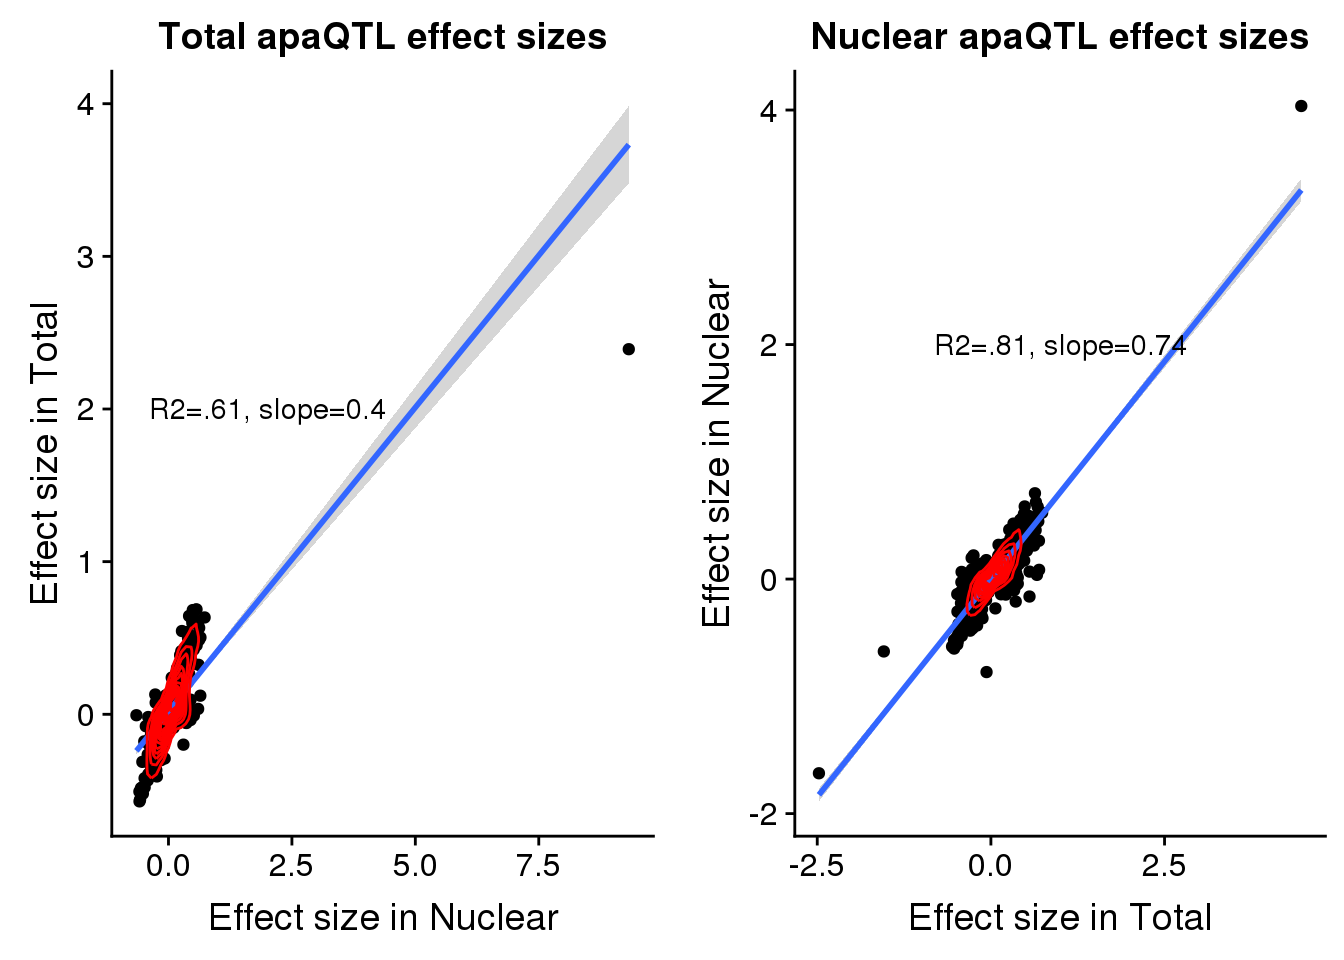
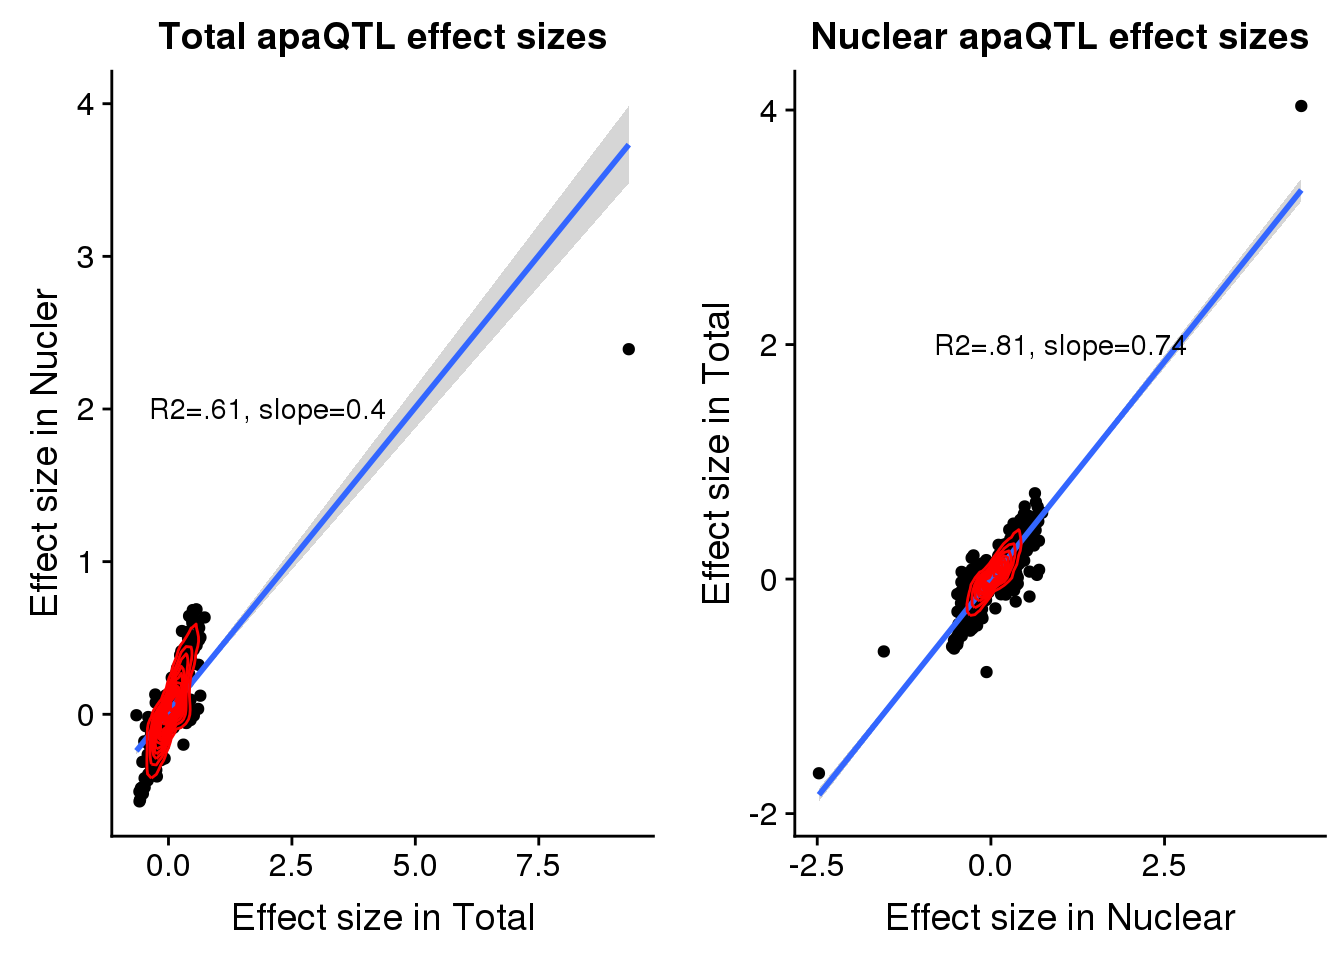
Build site.

diff --git a/docs/nonNormQTL.html b/docs/nonNormQTL.html
@@ -422,10 +422,10 @@ This reproducible <a href="http://rmarkdown.rstudio.com">R Markdown</a> analysis
 <div class="panel panel-default">
 <div class="panel-heading">
 <p class="panel-title">
-<a data-toggle="collapse" data-parent="#workflowr-checks" href="#strongRepositoryversionstrongahrefhttpsgithubcombrimittlemanapaQTLtreef10e64d7488cdcc34f86bee5b0304f205f934e4etargetblankf10e64da"> <span class="glyphicon glyphicon-ok text-success" aria-hidden="true"></span> <strong>Repository version:</strong> <a href="https://github.com/brimittleman/apaQTL/tree/f10e64d7488cdcc34f86bee5b0304f205f934e4e" target="_blank">f10e64d</a> </a>
+<a data-toggle="collapse" data-parent="#workflowr-checks" href="#strongRepositoryversionstrongahrefhttpsgithubcombrimittlemanapaQTLtreec04929f5191f070caece16c1c785ff988b725612targetblankc04929fa"> <span class="glyphicon glyphicon-ok text-success" aria-hidden="true"></span> <strong>Repository version:</strong> <a href="https://github.com/brimittleman/apaQTL/tree/c04929f5191f070caece16c1c785ff988b725612" target="_blank">c04929f</a> </a>
 </p>
 </div>
[2 lines of base64/hex data omitted]
 <div class="panel-body">
 <p>
 Great! You are using Git for version control. Tracking code development and connecting the code version to the results is critical for reproducibility. The version displayed above was the version of the Git repository at the time these results were generated. <br><br> Note that you need to be careful to ensure that all relevant files for the analysis have been committed to Git prior to generating the results (you can use <code>wflow_publish</code> or <code>wflow_git_commit</code>). workflowr only checks the R Markdown file, but you know if there are other scripts or data files that it depends on. Below is the status of the Git repository when the results were generated:
@@ -445,6 +445,7 @@ Untracked files:
     Untracked:  analysis/._PASdescriptiveplots.Rmd
     Untracked:  analysis/._cuttoffPercUsage.Rmd
     Untracked:  analysis/cuttoffPercUsage.Rmd
+    Untracked:  analysis/nascentRNA.Rmd
     Untracked:  apaQTL.Rproj
     Untracked:  code/._ApaQTL_nominalNonnorm.sh
     Untracked:  code/._BothFracDTPlotGeneRegions_normalized.sh
@@ -582,6 +583,7 @@ Untracked files:
     Untracked:  code/apaQTLCorrectPvalMakeQQ_4pc.R
     Untracked:  code/apaQTL_Nominal_4pc.sh
     Untracked:  code/apaQTL_permuted.4pc.sh
+    Untracked:  code/apaqtlfacetboxplots.R
     Untracked:  code/assignNucIntonpeak2intronlocs.sh
     Untracked:  code/assignPeak2Intronicregion.err
     Untracked:  code/assignPeak2Intronicregion.out
@@ -642,6 +644,8 @@ Untracked files:
     Untracked:  code/netseqFC.out
     Untracked:  code/netseqFC.sh
     Untracked:  code/neyDTPlot4thintron.err
+    Untracked:  code/qtlFacetBoxplots.err
+    Untracked:  code/qtlFacetBoxplots.out
     Untracked:  code/qtlsPvalOppFrac.py
     Untracked:  code/removeloc_pheno.py
     Untracked:  code/run_DistPAS2Sig.err
@@ -650,6 +654,7 @@ Untracked files:
     Untracked:  code/run_leafcutterDiffIso.sh
     Untracked:  code/run_leafcutter_ds.err
     Untracked:  code/run_leafcutter_ds.out
+    Untracked:  code/run_qtlFacetBoxplots.sh
     Untracked:  code/run_sepUsagephen.sh
     Untracked:  code/run_sepusage.err
     Untracked:  code/run_sepusage.out
@@ -672,6 +677,7 @@ Untracked files:
     Untracked:  data/DTmatrix/
     Untracked:  data/DiffIso/
     Untracked:  data/EncodeRNA/
+    Untracked:  data/ExampleQTLPlots/
     Untracked:  data/GeuvadisRNA/
     Untracked:  data/PAS/
     Untracked:  data/QTLGenotypes/
@@ -787,6 +793,40 @@ Message
 </tr>
 </thead>
 <tbody>
+<tr>
+<td>
+Rmd
+</td>
+<td>
+<a href="https://github.com/brimittleman/apaQTL/blob/c04929f5191f070caece16c1c785ff988b725612/analysis/nonNormQTL.Rmd" target="_blank">c04929f</a>
+</td>
+<td>
+brimittleman
+</td>
+<td>
+2019-05-28
+</td>
+<td>
+add example code
+</td>
+</tr>
+<tr>
+<td>
+html
+</td>
+<td>
+<a href="https://rawcdn.githack.com/brimittleman/apaQTL/f4a21063974a84ac3db3817cf9f97a5b21c5e5b0/docs/nonNormQTL.html" target="_blank">f4a2106</a>
+</td>
+<td>
+brimittleman
+</td>
+<td>
+2019-05-28
+</td>
+<td>
+Build site.
+</td>
+</tr>
 <tr>
 <td>
 Rmd
@@ -972,7 +1012,7 @@ Signif. codes:  0 &#39;***&#39; 0.001 &#39;**&#39; 0.01 &#39;*&#39; 0.05 &#39;.&
 Residual standard error: 0.1518 on 543 degrees of freedom
 Multiple R-squared:  0.6024,    Adjusted R-squared:  0.6017 
 F-statistic: 822.8 on 1 and 543 DF,  p-value: &lt; 2.2e-16</code></pre>
-<pre class="r"><code>totbothplot=ggplot(TotBoth, aes(x=Originalslope, y=slope))+geom_point() + geom_smooth(method=&quot;lm&quot;) + labs(title=&quot;Total apaQTL effect sizes&quot;, x=&quot;Effect size in Nuclear&quot;,y=&quot;Effect size in Total&quot;) + geom_density_2d(col=&quot;red&quot;) + annotate(&quot;text&quot;, y=2, x=2, label=&quot;R2=.61, slope=0.4&quot;)</code></pre>
+<pre class="r"><code>totbothplot=ggplot(TotBoth, aes(x=Originalslope, y=slope))+geom_point() + geom_smooth(method=&quot;lm&quot;) + labs(title=&quot;Total apaQTL effect sizes&quot;, x=&quot;Effect size in Total&quot;,y=&quot;Effect size in Nucler&quot;) + geom_density_2d(col=&quot;red&quot;) + annotate(&quot;text&quot;, y=2, x=2, label=&quot;R2=.61, slope=0.4&quot;)</code></pre>
 </div>
 <div id="nuclear" class="section level2">
 <h2>Nuclear</h2>
@@ -996,9 +1036,215 @@ Signif. codes:  0 &#39;***&#39; 0.001 &#39;**&#39; 0.01 &#39;*&#39; 0.05 &#39;.&
 Residual standard error: 0.0998 on 1010 degrees of freedom
 Multiple R-squared:  0.8127,    Adjusted R-squared:  0.8125 
 F-statistic:  4381 on 1 and 1010 DF,  p-value: &lt; 2.2e-16</code></pre>
-<pre class="r"><code>Nucbothplot=ggplot(NucBoth, aes(x=Originalslope, y=slope))+geom_point() + geom_smooth(method=&quot;lm&quot;) + labs(title=&quot;Nuclear apaQTL effect sizes&quot;, x=&quot;Effect size in Total&quot;,y=&quot;Effect size in Nuclear&quot;) + geom_density_2d(col=&quot;red&quot;) +  annotate(&quot;text&quot;, y=2, x=1, label=&quot;R2=.81, slope=0.74&quot;)</code></pre>
+<pre class="r"><code>Nucbothplot=ggplot(NucBoth, aes(x=Originalslope, y=slope))+geom_point() + geom_smooth(method=&quot;lm&quot;) + labs(title=&quot;Nuclear apaQTL effect sizes&quot;, x=&quot;Effect size in Nuclear&quot;,y=&quot;Effect size in Total&quot;) + geom_density_2d(col=&quot;red&quot;) +  annotate(&quot;text&quot;, y=2, x=1, label=&quot;R2=.81, slope=0.74&quot;)</code></pre>
 <pre class="r"><code>plot_grid(totbothplot,Nucbothplot)</code></pre>
 <p><img src="figure/nonNormQTL.Rmd/unnamed-chunk-10-1.png" width="672" style="display: block; margin: auto;" /></p>
+<p>
+<button type="button" class="btn btn-default btn-xs btn-workflowr btn-workflowr-fig" data-toggle="collapse" data-target="#fig-unnamed-chunk-10-1">
+Past versions of unnamed-chunk-10-1.png
+</button>
+</p>
+<div id="fig-unnamed-chunk-10-1" class="collapse">
+<div class="table-responsive">
+<table class="table table-condensed table-hover">
+<thead>
+<tr>
+<th>
+Version
+</th>
+<th>
+Author
+</th>
+<th>
+Date
+</th>
+</tr>
+</thead>
+<tbody>
+<tr>
+<td>
+<a href="https://github.com/brimittleman/apaQTL/blob/f4a21063974a84ac3db3817cf9f97a5b21c5e5b0/docs/figure/nonNormQTL.Rmd/unnamed-chunk-10-1.png" target="_blank">f4a2106</a>
+</td>
+<td>
+brimittleman
+</td>
+<td>
+2019-05-28
+</td>
+</tr>
+</tbody>
+</table>
+</div>
+</div>
+</div>
+<div id="remove-effect-size-abs1" class="section level2">
+<h2>Remove Effect size &gt; abs(1)</h2>
+<pre class="r"><code>totAPAinNucFilt=read.table(&quot;../data/QTLoverlap_nonNorm/TotalQTLinNuclearNominal_nonNorm.txt&quot;, header = F, stringsAsFactors = F, col.names=c(&quot;peakID&quot;, &quot;snp&quot;, &quot;dist&quot;, &quot;pval&quot;, &quot;slope&quot;)) %&gt;% filter(abs(slope)&lt;= 1)
+
+
+nucAPAinTotFilt=read.table(&quot;../data/QTLoverlap_nonNorm/NuclearQTLinTotalNominal_nonNorm.txt&quot;, header = F, stringsAsFactors = F, col.names=c(&quot;peakID&quot;, &quot;snp&quot;, &quot;dist&quot;, &quot;pval&quot;, &quot;slope&quot;)) %&gt;% filter(abs(slope)&lt;= 1)
+
+totAPAinTotFilt=read.table(&quot;../data/QTLoverlap_nonNorm/TotalQTLinTotalNominal_nonNorm.txt&quot;, header = F, stringsAsFactors = F, col.names=c(&quot;peakID&quot;, &quot;snp&quot;, &quot;dist&quot;, &quot;pval&quot;, &quot;slope&quot;)) %&gt;% dplyr::select(peakID, snp, slope) %&gt;%   filter(abs(slope)&lt;= 1) %&gt;% dplyr::rename(&quot;Originalslope&quot;=slope)
+
+nucAPAinNucFilt=read.table(&quot;../data/QTLoverlap_nonNorm/NuclearQTLinNuclearNominal_nonNorm.txt&quot;, header = F, stringsAsFactors = F, col.names=c(&quot;peakID&quot;, &quot;snp&quot;, &quot;dist&quot;, &quot;pval&quot;, &quot;slope&quot;)) %&gt;% dplyr::select(peakID, snp, slope)%&gt;%  filter(abs(slope)&lt;= 1) %&gt;%dplyr::rename(&quot;Originalslope&quot;=slope)</code></pre>
+<pre class="r"><code>TotBothFilt= totAPAinNucFilt %&gt;% inner_join(totAPAinTotFilt,by=c(&quot;peakID&quot;, &quot;snp&quot;))
+
+summary(lm(TotBothFilt$slope ~ TotBothFilt$Originalslope))</code></pre>
+<pre><code>
+Call:
+lm(formula = TotBothFilt$slope ~ TotBothFilt$Originalslope)
+
+Residuals:
+     Min       1Q   Median       3Q      Max 
+-0.43593 -0.04769 -0.00197  0.05133  0.48722 
+
+Coefficients:
+                          Estimate Std. Error t value Pr(&gt;|t|)    
+(Intercept)               0.004788   0.004634   1.033    0.302    
+TotBothFilt$Originalslope 0.767422   0.018322  41.885   &lt;2e-16 ***
+---
+Signif. codes:  0 &#39;***&#39; 0.001 &#39;**&#39; 0.01 &#39;*&#39; 0.05 &#39;.&#39; 0.1 &#39; &#39; 1
+
+Residual standard error: 0.1063 on 542 degrees of freedom
+Multiple R-squared:  0.764, Adjusted R-squared:  0.7635 
+F-statistic:  1754 on 1 and 542 DF,  p-value: &lt; 2.2e-16</code></pre>
+<pre class="r"><code>totbothplotfilt=ggplot(TotBothFilt, aes(x=Originalslope, y=slope))+geom_point() + geom_smooth(method=&quot;lm&quot;) + labs(title=&quot;Total apaQTL effect sizes&quot;, y=&quot;Effect size in Nuclear&quot;,x=&quot;Effect size in Total&quot;) + geom_density_2d(col=&quot;red&quot;) + annotate(&quot;text&quot;, y=.75, x=.1, label=&quot;R2=.76, slope=0.77&quot;)+ geom_abline(slope=1,color=&quot;green&quot;)</code></pre>
+<pre class="r"><code>NucBothFilt= nucAPAinTotFilt %&gt;% inner_join(nucAPAinNucFilt,by=c(&quot;peakID&quot;, &quot;snp&quot;))
+summary(lm(NucBothFilt$slope ~ NucBothFilt$Originalslope))</code></pre>
+<pre><code>
+Call:
+lm(formula = NucBothFilt$slope ~ NucBothFilt$Originalslope)
+
+Residuals:
+     Min       1Q   Median       3Q      Max 
+-0.74819 -0.03867  0.00179  0.04084  0.37901 
+
+Coefficients:
+                            Estimate Std. Error t value Pr(&gt;|t|)    
+(Intercept)               -0.0006196  0.0030789  -0.201    0.841    
+NucBothFilt$Originalslope  0.7059759  0.0133986  52.690   &lt;2e-16 ***
+---
+Signif. codes:  0 &#39;***&#39; 0.001 &#39;**&#39; 0.01 &#39;*&#39; 0.05 &#39;.&#39; 0.1 &#39; &#39; 1
+
+Residual standard error: 0.09539 on 1007 degrees of freedom
+Multiple R-squared:  0.7338,    Adjusted R-squared:  0.7336 
+F-statistic:  2776 on 1 and 1007 DF,  p-value: &lt; 2.2e-16</code></pre>
+<pre class="r"><code>Nucbothplotfilt=ggplot(NucBothFilt, aes(x=Originalslope, y=slope))+geom_point() + geom_smooth(method=&quot;lm&quot;) + labs(title=&quot;Nuclear apaQTL effect sizes&quot;, y=&quot;Effect size in Total&quot;,x=&quot;Effect size in Nuclear&quot;) + geom_density_2d(col=&quot;red&quot;) +  annotate(&quot;text&quot;, y=.75, x=.1, label=&quot;R2=.73, slope=0.71&quot;)+ geom_abline(slope=1,color=&quot;green&quot;)</code></pre>
+<pre class="r"><code>plot_grid(totbothplotfilt,Nucbothplotfilt)</code></pre>
+<p><img src="figure/nonNormQTL.Rmd/unnamed-chunk-14-1.png" width="672" style="display: block; margin: auto;" /></p>
+<div id="box-plots-to-look-at-the-outliers" class="section level3">
+<h3>Box plots to look at the outliers:</h3>
+<p>get headers:</p>
+<pre class="bash"><code>less /project2/gilad/briana/YRI_geno_hg19/chr3.dose.filt.vcf.gz | head -n14 | tail -n1 &gt; /project2/gilad/briana/apaQTL/data/ExampleQTLPlots/genotypeHeader.txt
+less /project2/gilad/briana/apaQTL/data/phenotype_5perc/APApeak_Phenotype_GeneLocAnno.Total.5perc.fc.gz | head -n1 &gt; /project2/gilad/briana/apaQTL/data/ExampleQTLPlots/phenotypeHeader.txt</code></pre>
+<p>remove the hashtag in these</p>
+<p>apaqtlfacetboxplots.R</p>
+<pre class="r"><code>library(tidyverse)
+library(reshape2)
+library(optparse)
+library(cowplot)
+
+
+option_list = list(
+  make_option(c(&quot;-P&quot;, &quot;--pheno&quot;), action=&quot;store&quot;, default=NA, type=&#39;character&#39;,
+              help=&quot;input pheno file&quot;),
+  make_option(c(&quot;-G&quot;, &quot;--geno&quot;), action=&quot;store&quot;, default=NA, type=&#39;character&#39;,
+              help=&quot;input genotype&quot;),
+  make_option(c(&quot;-g&quot;, &quot;--gene&quot;), action=&quot;store&quot;, default=NA, type=&#39;character&#39;,
+              help=&quot;gene&quot;),
+  make_option(c(&quot;-p&quot;, &quot;--peakID&quot;), action=&quot;store&quot;, default=NA, type=&#39;character&#39;,
+              help=&quot;peakID&quot;),
+  make_option(c(&quot;-o&quot;, &quot;--output&quot;), action=&quot;store&quot;, default=NA, type=&#39;character&#39;,
+              help=&quot;output file for plot&quot;)
+)
+
+opt_parser &lt;- OptionParser(option_list=option_list)
+opt &lt;- parse_args(opt_parser)
+
+
+opt_parser &lt;- OptionParser(option_list=option_list)
+opt &lt;- parse_args(opt_parser)
+
+
+phenohead=read.table(&quot;/project2/gilad/briana/apaQTL/data/ExampleQTLPlots/phenotypeHeader.txt&quot;, header = T,stringsAsFactors = F)
+pheno=read.table(opt$pheno, col.names =colnames(phenohead),stringsAsFactors = F)
+
+
+meltpheno=melt(pheno, id.vars = &quot;chrom&quot;, value.name = &quot;Ratio&quot;, variable.name = &quot;Individual&quot;) %&gt;% separate(Ratio, into=c(&quot;num&quot;, &quot;denom&quot;), sep=&quot;/&quot;)  %&gt;%   separate(chrom, into=c(&quot;chrom&quot;, &quot;start&quot;, &quot;end&quot;, &quot;peakID&quot;),sep=&quot;:&quot;) %&gt;% mutate(PeakLoc=paste(start, end, sep=&quot;:&quot;))
+
+meltpheno$Individual= as.character(meltpheno$Individual)
+meltpheno$num= as.numeric(meltpheno$num)
+meltpheno$denom=as.numeric(meltpheno$denom)
+
+
+genoHead=read.table(&quot;/project2/gilad/briana/apaQTL/data/ExampleQTLPlots/genotypeHeader.txt&quot;, header = T,stringsAsFactors = F)
+geno=read.table(opt$geno, col.names =colnames(genoHead),stringsAsFactors = F ) %&gt;% select(ID,contains(&quot;NA&quot;)) 
+
+
+lettersGeno=read.table(opt$geno, col.names =colnames(genoHead),stringsAsFactors = F,colClasses = c(&quot;character&quot;)) %&gt;% select(REF, ALT)
+
+refAllele=lettersGeno$REF
+altAllele=lettersGeno$ALT
+
+
+genoMelt=melt(geno, id.vars = &quot;ID&quot;, value.name = &quot;FullGeno&quot;, variable.name = &quot;Individual&quot; ) %&gt;% separate(FullGeno, into=c(&quot;geno&quot;,&quot;dose&quot;,&quot;extra1&quot;), sep=&quot;:&quot;) %&gt;% select(Individual, dose) %&gt;% mutate(genotype=ifelse(round(as.integer(dose))==0, paste(refAllele, refAllele, sep=&quot;&quot;), ifelse(round(as.integer(dose))==1, paste(refAllele,altAllele, sep=&quot;&quot;), paste(altAllele,altAllele,sep=&quot;&quot;))))
+genoMelt$Individual= as.character(genoMelt$Individual)
+
+
+pheno_qtlpeak=meltpheno %&gt;% inner_join(genoMelt, by=&quot;Individual&quot;) %&gt;%  mutate(PAU=num/denom) 
+
+qtlplot=ggplot(pheno_qtlpeak, aes(x=genotype, y=PAU, fill=genotype)) + geom_boxplot(width=.5)+ geom_jitter(alpha=1) + facet_grid(~PeakLoc) +scale_fill_brewer(palette = &quot;YlOrRd&quot;)
+
+ggsave(plot=qtlplot, filename=opt$output, height=10, width=10)</code></pre>
+<p>Code for boxplots:</p>
+<p>run_qtlFacetBoxplots.sh</p>
+<pre class="bash"><code>#!/bin/bash
+
+#SBATCH --job-name=qtlFacetBoxplots
+#SBATCH --account=pi-yangili1
+#SBATCH --time=24:00:00
+#SBATCH --output=qtlFacetBoxplots.out
+#SBATCH --error=qtlFacetBoxplots.err
+#SBATCH --partition=broadwl
+#SBATCH --mem=18G
+#SBATCH --mail-type=END
+
+
+module load Anaconda3
+source activate three-prime-env
+
+Fraction=$1
+gene=$2
+chrom=$3
+snp=$4
+peakID=$5
+
+
+less /project2/gilad/briana/apaQTL/data/phenotype_5perc/APApeak_Phenotype_GeneLocAnno.${Fraction}.5perc.fc.gz | grep ${gene}_ &gt; /project2/gilad/briana/apaQTL/data/ExampleQTLPlots/${gene}_${Fraction}PeaksPheno.txt
+
+
+less /project2/gilad/briana/YRI_geno_hg19/chr${chrom}.dose.filt.vcf.gz | grep ${snp} &gt;  /project2/gilad/briana/apaQTL/data/ExampleQTLPlots/${gene}_${Fraction}PeaksGenotype.txt
+
+Rscript apaqtlfacetboxplots.R -P /project2/gilad/briana/apaQTL/data/ExampleQTLPlots/${gene}_${Fraction}PeaksPheno.txt -G /project2/gilad/briana/apaQTL/data/ExampleQTLPlots/${gene}_${Fraction}PeaksGenotype.txt --gene ${gene} -p ${peakID}  -o /project2/gilad/briana/apaQTL/data/ExampleQTLPlots/${gene}_${Fraction}${SNP}${peakID}_boxplot.png
+</code></pre>
+<pre class="r"><code>totAPAinTot %&gt;% filter(abs(Originalslope)&gt;1)</code></pre>
+<pre><code>                        peakID         snp Originalslope
+1      NBPF9_intron_-_peak7314 1:144701300       3.14235
+2 HLA-DRB5_intron_+_peak113454  6:32486756    -207.01900
+3    HLA-DRB6_end_+_peak113461  6:32538598       9.32331</code></pre>
+<pre class="bash"><code>sbatch run_qtlFacetBoxplots.sh &quot;Total&quot; &quot;NBPF9&quot; &quot;1&quot; &quot;1:144701300&quot; &quot;peak7314&quot;
+sbatch run_qtlFacetBoxplots.sh &quot;Total&quot; &quot;HLA-DRB5&quot; &quot;6&quot; &quot;6:32486756&quot; &quot;peak113454&quot;
+sbatch run_qtlFacetBoxplots.sh &quot;Total&quot; &quot;HLA-DRB6&quot; &quot;6&quot; &quot;6:32538598&quot; &quot;peak113461&quot;
+</code></pre>
+<pre class="r"><code>nucAPAinNuc %&gt;% filter(abs(Originalslope)&gt;1)</code></pre>
+<pre><code>                        peakID         snp Originalslope
+1  LINC00869_intron_-_peak7883 1:149598905      -2.47583
+2       FRG1BP_end_-_peak80905 20:29641550      -1.54150
+3 HLA-DRB5_intron_+_peak113456  6:32468906       4.46867</code></pre>
+<pre class="bash"><code>sbatch run_qtlFacetBoxplots.sh &quot;Nuclear&quot; &quot;LINC00869&quot; &quot;1&quot; &quot;1:149598905&quot; &quot;peak7883&quot;
+sbatch run_qtlFacetBoxplots.sh &quot;Nuclear&quot; &quot;FRG1BP&quot; &quot;20&quot; &quot;20:29641550&quot; &quot;peak80905&quot;
+sbatch run_qtlFacetBoxplots.sh &quot;Nuclear&quot; &quot;HLA-DRB5&quot; &quot;6&quot; &quot;6:32468906&quot; &quot;peak113456&quot;
+</code></pre>
 <br>
 <p>
 <button type="button" class="btn btn-default btn-workflowr btn-workflowr-sessioninfo" data-toggle="collapse" data-target="#workflowr-sessioninfo" style="display: block;">
@@ -1044,6 +1290,7 @@ loaded via a namespace (and not attached):
 [41] htmltools_0.3.6  rvest_0.3.2      assertthat_0.2.0 colorspace_1.3-2
 [45] labeling_0.3     stringi_1.2.4    lazyeval_0.2.1   munsell_0.5.0   
 [49] broom_0.5.1      crayon_1.3.4    </code></pre>
+</div>
 </div>
 </div>
 
